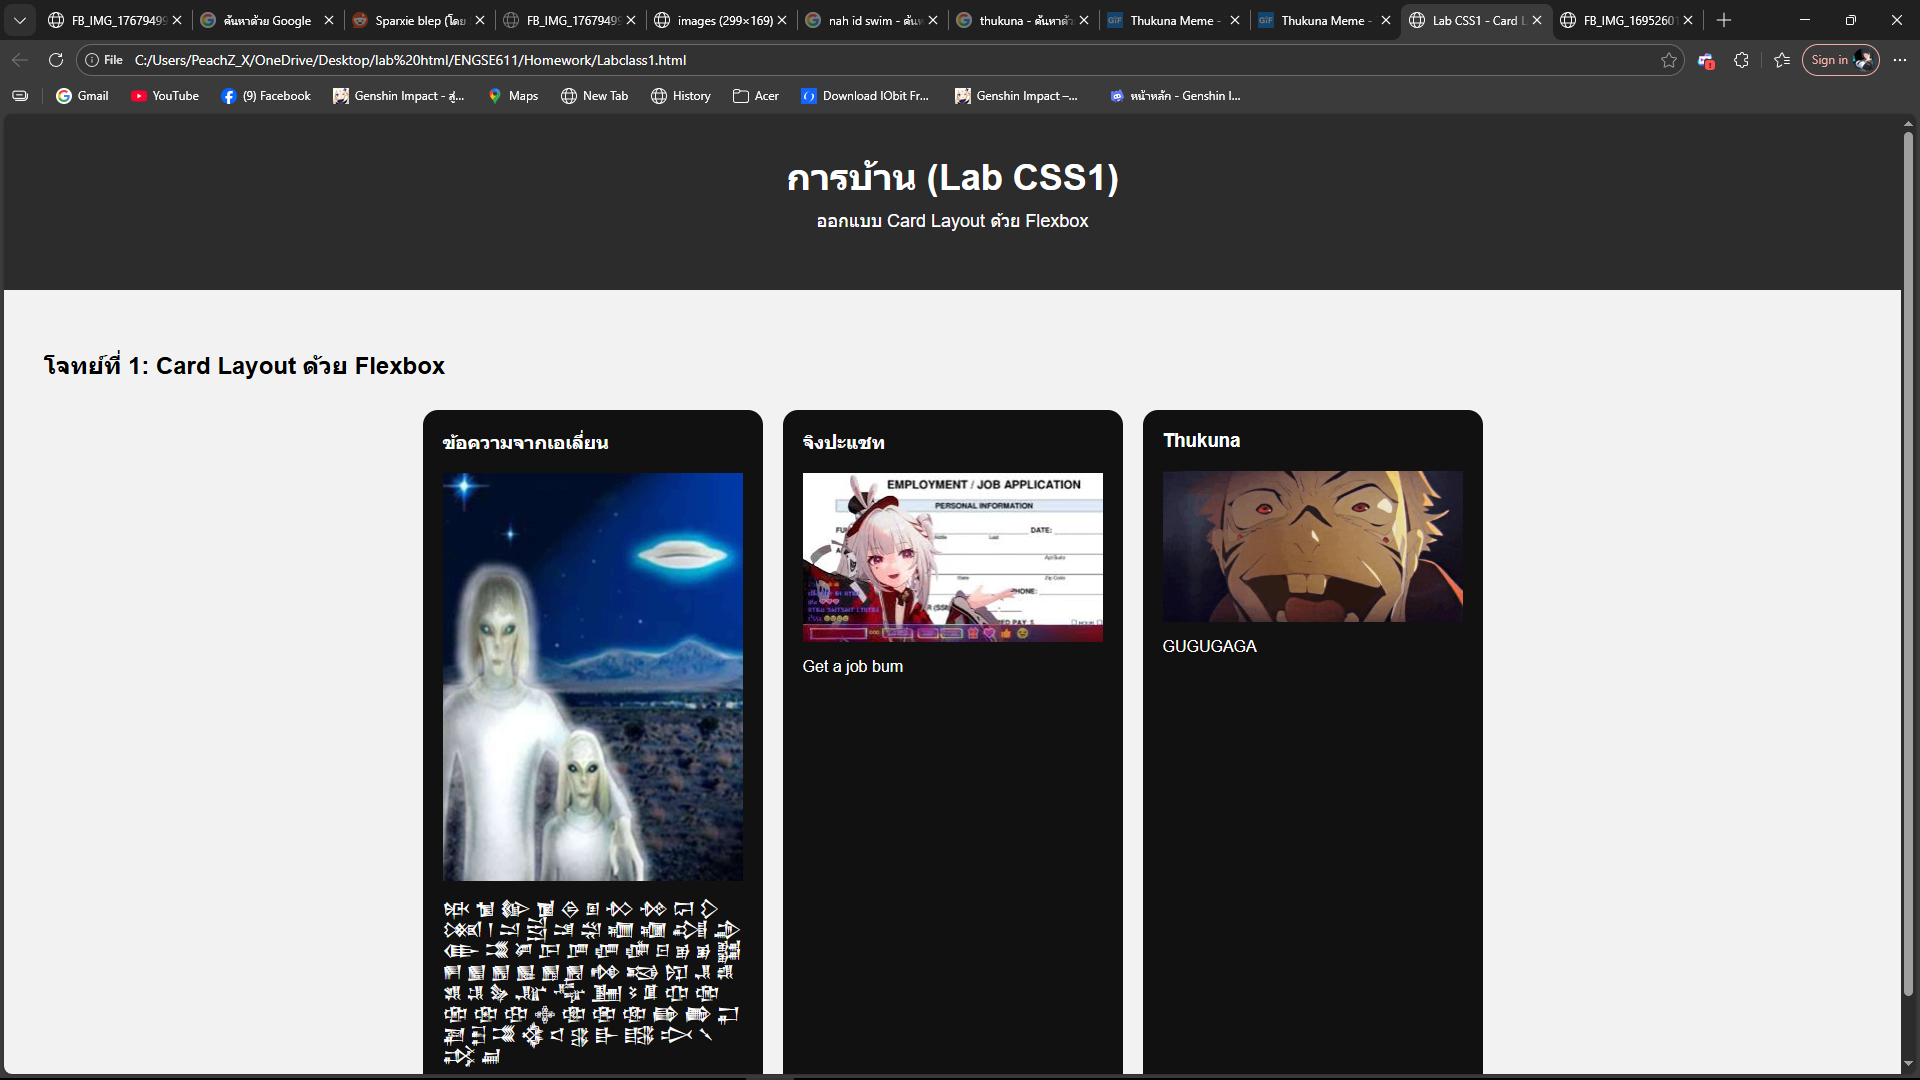
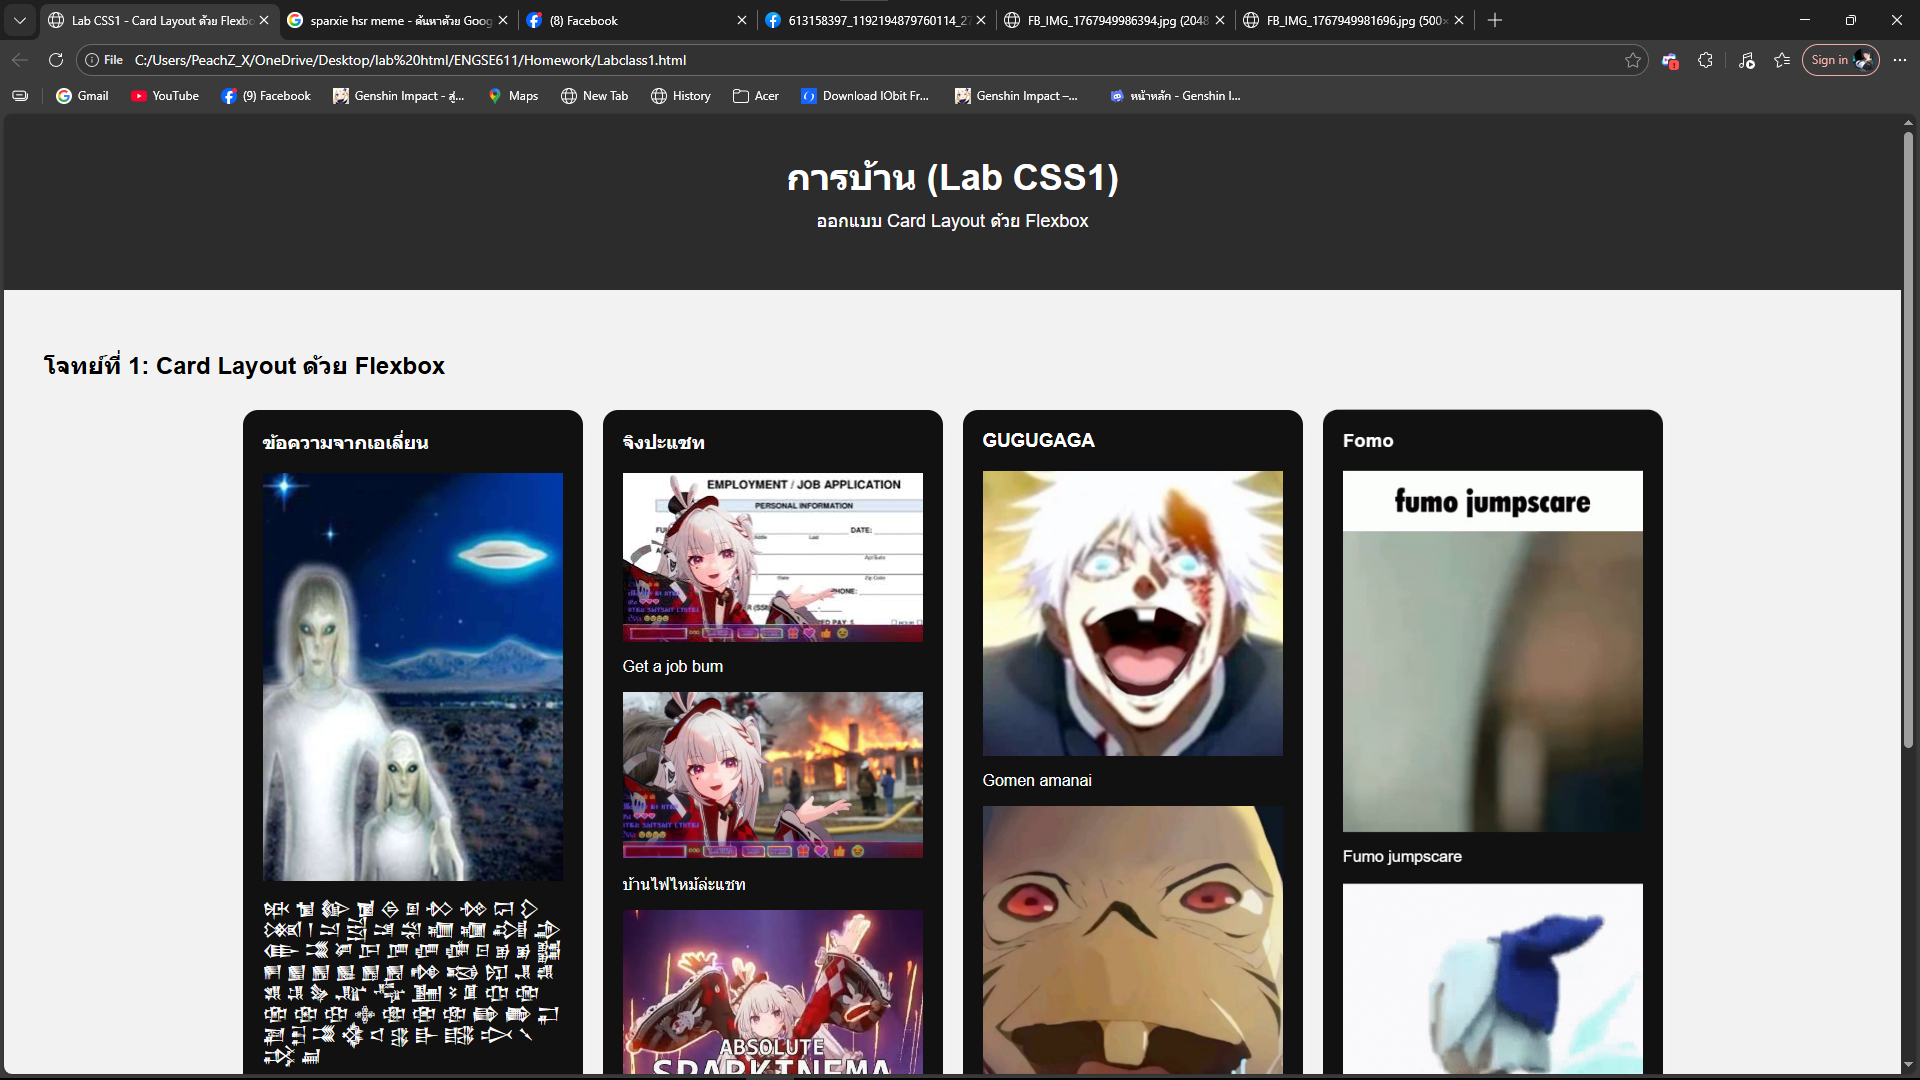
add more picture

diff --git a/ENGSE611/Homework/Labclass1.html b/ENGSE611/Homework/Labclass1.html
@@ -89,7 +89,7 @@
         <div class="card-wrapper">
             <div class="card">
                 <h3>ข้อความจากเอเลี่ยน</h3>
-                <img src="https://cdn.discordapp.com/attachments/902786133283471410/1154229880230268938/FB_IMG_1695260193343.jpg?ex=6962fed8&is=6961ad58&hm=59b52e7e25cd433afaa8a61b404f772c705969e83f05f3bb5aae4dbdadae5b88">
+                <img src="https://cdn.discordapp.com/attachments/902786133283471410/1154229880230268938/FB_IMG_1695260193343.jpg?ex=69645058&is=6962fed8&hm=3bc751aa70e78a9ecd75f264aa3f17a5b417046a1f611028344f2d469a28741f">
                 <p style="color: white;">𒁮 𒁯 𒁰 𒁱 𒁲 𒁳 𒁴 𒁵 𒁶 𒁷 𒁸 𒁹 𒁺 𒁻 𒁼 𒁽 𒁾 𒁿 𒂀 𒂁 𒂂 𒂃 𒂄 𒂅 𒂆 𒂇 𒂈 𒂉 𒂊 𒂋 𒂌 𒂍 𒂎 𒂏 𒂐 𒂑 𒂓 𒂔 𒂕 𒂖 𒂗 𒂘 𒂙 𒂚 𒂛 𒂜 𒂝 𒂞 𒂟 𒂠 𒂡 𒂢 𒂣 𒂥 𒂦 𒂭 𒂮 𒂳 𒂴 𒂵 𒂶 𒂷 𒃬 𒃭 𒃮 𒃯 𒃰 𒃱 𒃲 𒃳 𒃴 𒃵 𒃶 𒃷</p>
             </div>
 
@@ -97,12 +97,30 @@
                 <h3>จิงปะแชท</h3>
                 <img src="https://encrypted-tbn2.gstatic.com/images?q=tbn:ANd9GcQqvOVCZ-hK5-jI2jo7QldBSdrXdq_WZnnSoUPIwW2M4ll794hF">
                 <p style="color: white;">Get a job bum</p>
+                <img src="https://scontent.fcnx4-2.fna.fbcdn.net/v/t39.30808-6/613158397_1192194879760114_279665739525316265_n.jpg?_nc_cat=107&ccb=1-7&_nc_sid=bd9a62&_nc_eui2=AeHlV4JKKwonNQRtfDlKkS0MVeltTcpxtqhV6W1NynG2qIwFHs0rglxZ3M1HM_KQcp5PrdY_PCJEsEaMnKhm4afD&_nc_ohc=Wy6WOWYQ1NwQ7kNvwHUPEc-&_nc_oc=Adl_gno4-WglkTEsDzgo47Fbhc3AT5K25qlZPkpKtylsRWoPmDC0xDSekpKHJoVNSmyTa6JsdyJuuPPBFsJyPKtR&_nc_zt=23&_nc_ht=scontent.fcnx4-2.fna&_nc_gid=4Zkw_3YirJ_SMC_bNcGElg&oh=00_AfrRQRInPTfmV2wB_fiwtw2A78wYm-9LErbdrDk_juIO3w&oe=69694C61">
+                <p style="color: white;">บ้านไฟไหม้ล่ะแชท</p>
+                <img src="https://cdn.discordapp.com/attachments/902786133283471410/1459390762100982018/FB_IMG_1767949981696.jpg?ex=69646c8f&is=69631b0f&hm=5401bbbcae28a2fbb9032e42b04625af9d85cb0cfd0fc5d467e69548d3f90580&">
+                <p style="color: white; ">ABSOLUTE SPARKINIMA!!</p>
             </div>
 
             <div class="card">
-                <h3>Thukuna</h3>
-                <img src="https://media1.tenor.com/m/TJt-mUIGmQkAAAAd/thukuna.gif">
-                <p style="color: white; ">GUGUGAGA</p>
+                <h3>GUGUGAGA</h3>
+                <img src="https://i.pinimg.com/736x/ce/af/e3/ceafe34936d464b01d140e3491634210.jpg">
+                <p style="color: white; ">Gomen amanai</p>
+                <img src="https://i.pinimg.com/736x/e5/9d/52/e59d525247c704c788f3cdb7a45421f2.jpg">
+                <p style="color: white; ">Baby Thukuna</p>
+                <img src="https://i.pinimg.com/736x/2c/11/59/2c11593a9be9c8c3d834d29d4e90a975.jpg">
+                <p style="color: white; ">GUGU GA GA!!</p>
+            </div>
+
+            <div class="card">
+                <h3>Fomo</h3>
+                <img src="https://forums.terraria.org/index.php?attachments/88e71fee-58a0-4ae2-82ba-0b285849d395-gif.369331">
+                <p style="color: white; ">Fumo jumpscare</p>
+                <img src="https://media1.tenor.com/m/qoSlxMNid4sAAAAC/fumodance-cirno.gif">
+                <p style="color: white; ">Fumo spin</p>
+                <img src="https://media1.tenor.com/m/-B964COFXCMAAAAd/kogasa-fumo-touhou.gif">
+                <p style="color: white; ">BOO!!</p>
             </div>
         </div>
     </div>
